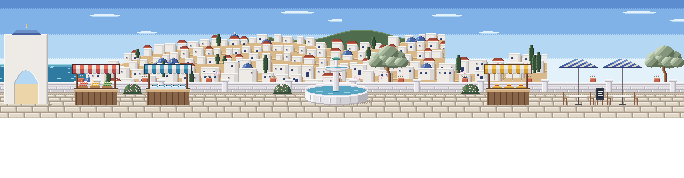
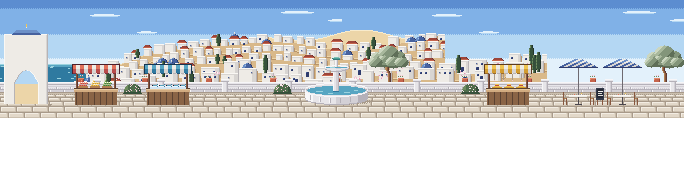
草帽湾 market: brighter haze, drifting sun shafts over the mid-ground
Claude-Session: https://claude.ai/code/session_01QXRFGGwh6ntFozGXtHod51

Changed region(s): [[0.4605, 0.1685, 0.614, 0.2809], [0.3684, 0.1966, 0.3991, 0.2247]]

diff --git a/prototype/map-test/summer_life.js b/prototype/map-test/summer_life.js
@@ -190,6 +190,17 @@ const summerLife=(function(){
   if(!s.market&&q.lei.step===1&&night()&&s.x>990&&s.x<1330&&!storyLocked())scene(async()=>{await say(me(),'（岸边放着一双拖鞋……水里有人？）');await say(me(),'是卡伊诺！他一个人潜进了夜里的海，在巨蚌那一带找什么。');q.lei.step=2;log('夜里看见卡伊诺一个人下海，在巨蚌那一带找东西。');showHint('傍晚去海边听听卡伊诺弹琴');});}
  function arrow(ctx,x,y0,now){const ay=Math.round(y0+Math.sin(now*5)*2);ctx.fillStyle='#2b2236';ctx.fillRect(x-4,ay-1,9,6);ctx.fillRect(x-2,ay+5,5,2);ctx.fillRect(x-1,ay+7,3,1);ctx.fillStyle='#f6c45a';ctx.fillRect(x-3,ay,7,4);ctx.fillRect(x-1,ay+4,3,2);}
  function pop(ctx){for(const p of pops){ctx.globalAlpha=Math.max(0,1-p.t/1.6);ctx.font='bold 8px sans-serif';ctx.fillStyle='#2b2236';ctx.fillText(p.text,p.x-6+1,p.y-p.t*10+1);ctx.fillStyle='#f6c45a';ctx.fillText(p.text,p.x-6,p.y-p.t*10);ctx.globalAlpha=1;}}
+ /* mid-ground sun (owner 2026-11-05): soft slanted shafts that drift and breathe, plus dappled glints on the town */
+ const RAYS=[[0,14,.9],[83,8,.6],[150,20,1],[231,10,.7],[302,16,.85],[389,9,.55],[455,18,.9]];
+ function sunRays(ctx,cx,now){if(typeof weather!=='undefined'&&weather.kind!=='clear')return;const h=hour();const day=Math.max(0,Math.min(1,(h-7)/2,(19-h)/2));if(day<=0)return;
+  ctx.save();ctx.globalCompositeOperation='screen';
+  for(const [i,[x0,w,k]]of RAYS.entries()){const a=day*k*(.24+.12*Math.sin(now*.35+i*1.9))*(.75+.25*Math.sin(now*.11+i));if(a<=.01)continue;
+   const x=((x0-cx*.6+Math.sin(now*.07+i)*6)%520+520)%520-80,g=ctx.createLinearGradient(0,0,0,92);
+   g.addColorStop(0,`rgba(255,244,206,${a})`);g.addColorStop(.6,`rgba(255,240,200,${a*.55})`);g.addColorStop(1,'rgba(255,240,200,0)');
+   ctx.fillStyle=g;ctx.beginPath();ctx.moveTo(x,0);ctx.lineTo(x+w,0);ctx.lineTo(x+w+44+w*.6,92);ctx.lineTo(x+40,92);ctx.closePath();ctx.fill();}
+  for(let i=0;i<14;i++){const t=now*.2+i*2.3,a=day*Math.max(0,Math.sin(t))*.35;if(a<.03)continue;const x=((i*61+Math.sin(t*.5)*8-cx*.6)%560+560)%560-60,y=58+(i*17)%22;
+   ctx.fillStyle=`rgba(255,248,220,${a})`;ctx.fillRect(Math.round(x),y,3,1);ctx.fillRect(Math.round(x)+1,y-1,1,1);}
+  ctx.restore();}
  /* customers talk in the same DOM pill as every other NPC (.npcsay, people.js / the city), owner 2026-11-05 */
  const pills=new Map();
  function sayPills(list,camX){const scale=Number(view.style.width.replace('px',''))/342||view.width/342;
@@ -222,7 +233,7 @@ const summerLife=(function(){
  function put(ctx,k,cx,w,h){const im=sprite(k);if(im?.complete)ctx.drawImage(im,Math.round(cx-im.width/2),FEET+1-im.height);}
  function drawNpc(ctx,n){const [f,p]=npcFrame(n);const pic=npcCanvas(n,f,p,false);ctx.drawImage(pic,Math.round(n.x-10),Math.round(FEET-27));}
  function marketDraw(ctx,info){tick();const now=realClock,c=C(),s=c.state,b=B(),cx=info.camX||0,h=hour(),open=h>=7&&h<20;
-  /* layers (owner 2026-11-05): sky still, hazy far town at 0.3, mid town at 0.6, street at 1 */for(const [k,f,veil]of [['msky',0,0],['mfar',.3,.55],['mmid',.6,.3],['mbg',1,0]]){const im=sprite(k);if(im?.complete)ctx.drawImage(im,-Math.round(cx*f),0);if(veil){ctx.fillStyle=`rgba(196,224,246,${veil})`;ctx.fillRect(0,0,342,118);}}/* a pale blue veil over each distant layer: the further, the lighter (owner) */
+  /* layers (owner 2026-11-05): sky still, hazy far town at 0.3, mid town at 0.6, street at 1 */for(const [k,f,veil]of [['msky',0,0],['mfar',.3,.5],['mmid',.6,.22],['mbg',1,0]]){if(k==='mbg')sunRays(ctx,cx,now);const im=sprite(k);if(im?.complete)ctx.drawImage(im,-Math.round(cx*f),0);if(veil){ctx.fillStyle=`rgba(236,245,252,${veil})`;ctx.fillRect(0,0,342,118);}}/* a pale blue veil over each distant layer: the further, the lighter (owner) */
   ctx.save();ctx.translate(-Math.round(cx),0);
   // vendors stand behind their counters
   if(open){for(const [v,x]of [[V.fruit,FRUIT_X],[V.fish,FISH_X],[V.hat,HAT_X]])drawPerson(ctx,v,x+4,FEET-9);drawPerson(ctx,V.cafe,CAFE_X-30,FEET);}

diff --git a/art/src/concept/summer_market.py b/art/src/concept/summer_market.py
@@ -154,8 +154,8 @@ def far_layer():
         s.hline(x := rnd.randint(0, 200), x + rnd.randint(1, 3), rnd.randint(hz + 2, 80), P.sea[4])
     S = surface(FW, 54, 20, 11, 70, 17, lift=.32, lend=230)           # a headland rising out of the sea
     for x in range(FW):
-        s.vline(x, S[x], MH - 1, P.leaf[2])
-        s.set(x, S[x], P.leaf[3])
+        s.vline(x, S[x], MH - 1, P.sand[3])                            # sunlit dry headland, not green (owner)
+        s.set(x, S[x], P.sand[4])
     s.blit(hill_town(FW, 66, 14, 21, .6, 3, 6, 0, lift=.4, lend=200), 0, 0)
     return s                                                          # the game veils it in pale blue (owner)
 

diff --git a/docs/AGENT_LOG.md b/docs/AGENT_LOG.md
@@ -6,6 +6,9 @@ owner decisions made, what was not tested. Keep older entries; trim beyond ~40 e
 
 ---
 
+## 2026-11-05 Claude: 市集 haze lighter + mid-ground sun rays
+- Far headland sand instead of green; veils are near-white sky blue (far .5, mid .22). `sunRays()` in summer_life.js: 7 slanted shafts (screen blend) that drift with parallax .6 and breathe, plus dappled glints on the town; off at night and in rain/cloud.
+
 ## 2026-11-05 Claude: 草帽湾 市集 backdrop in layers
 - summer_market.py: sky / far (sea on the left, headland, small town) / mid (terraced town, houses stand on the slope) / near (wall with cap, pilasters, shadow; perspective cobbles; olive trees, oleanders). Parallax 0, .3, .6, 1 and a pale blue veil over far (.55) and mid (.3) in summer_life.js. Fountain redrawn round (elliptic rim, water, drum shading, shadow).
 - Market customers talk in the shared `.npcsay` pill instead of a canvas box.
